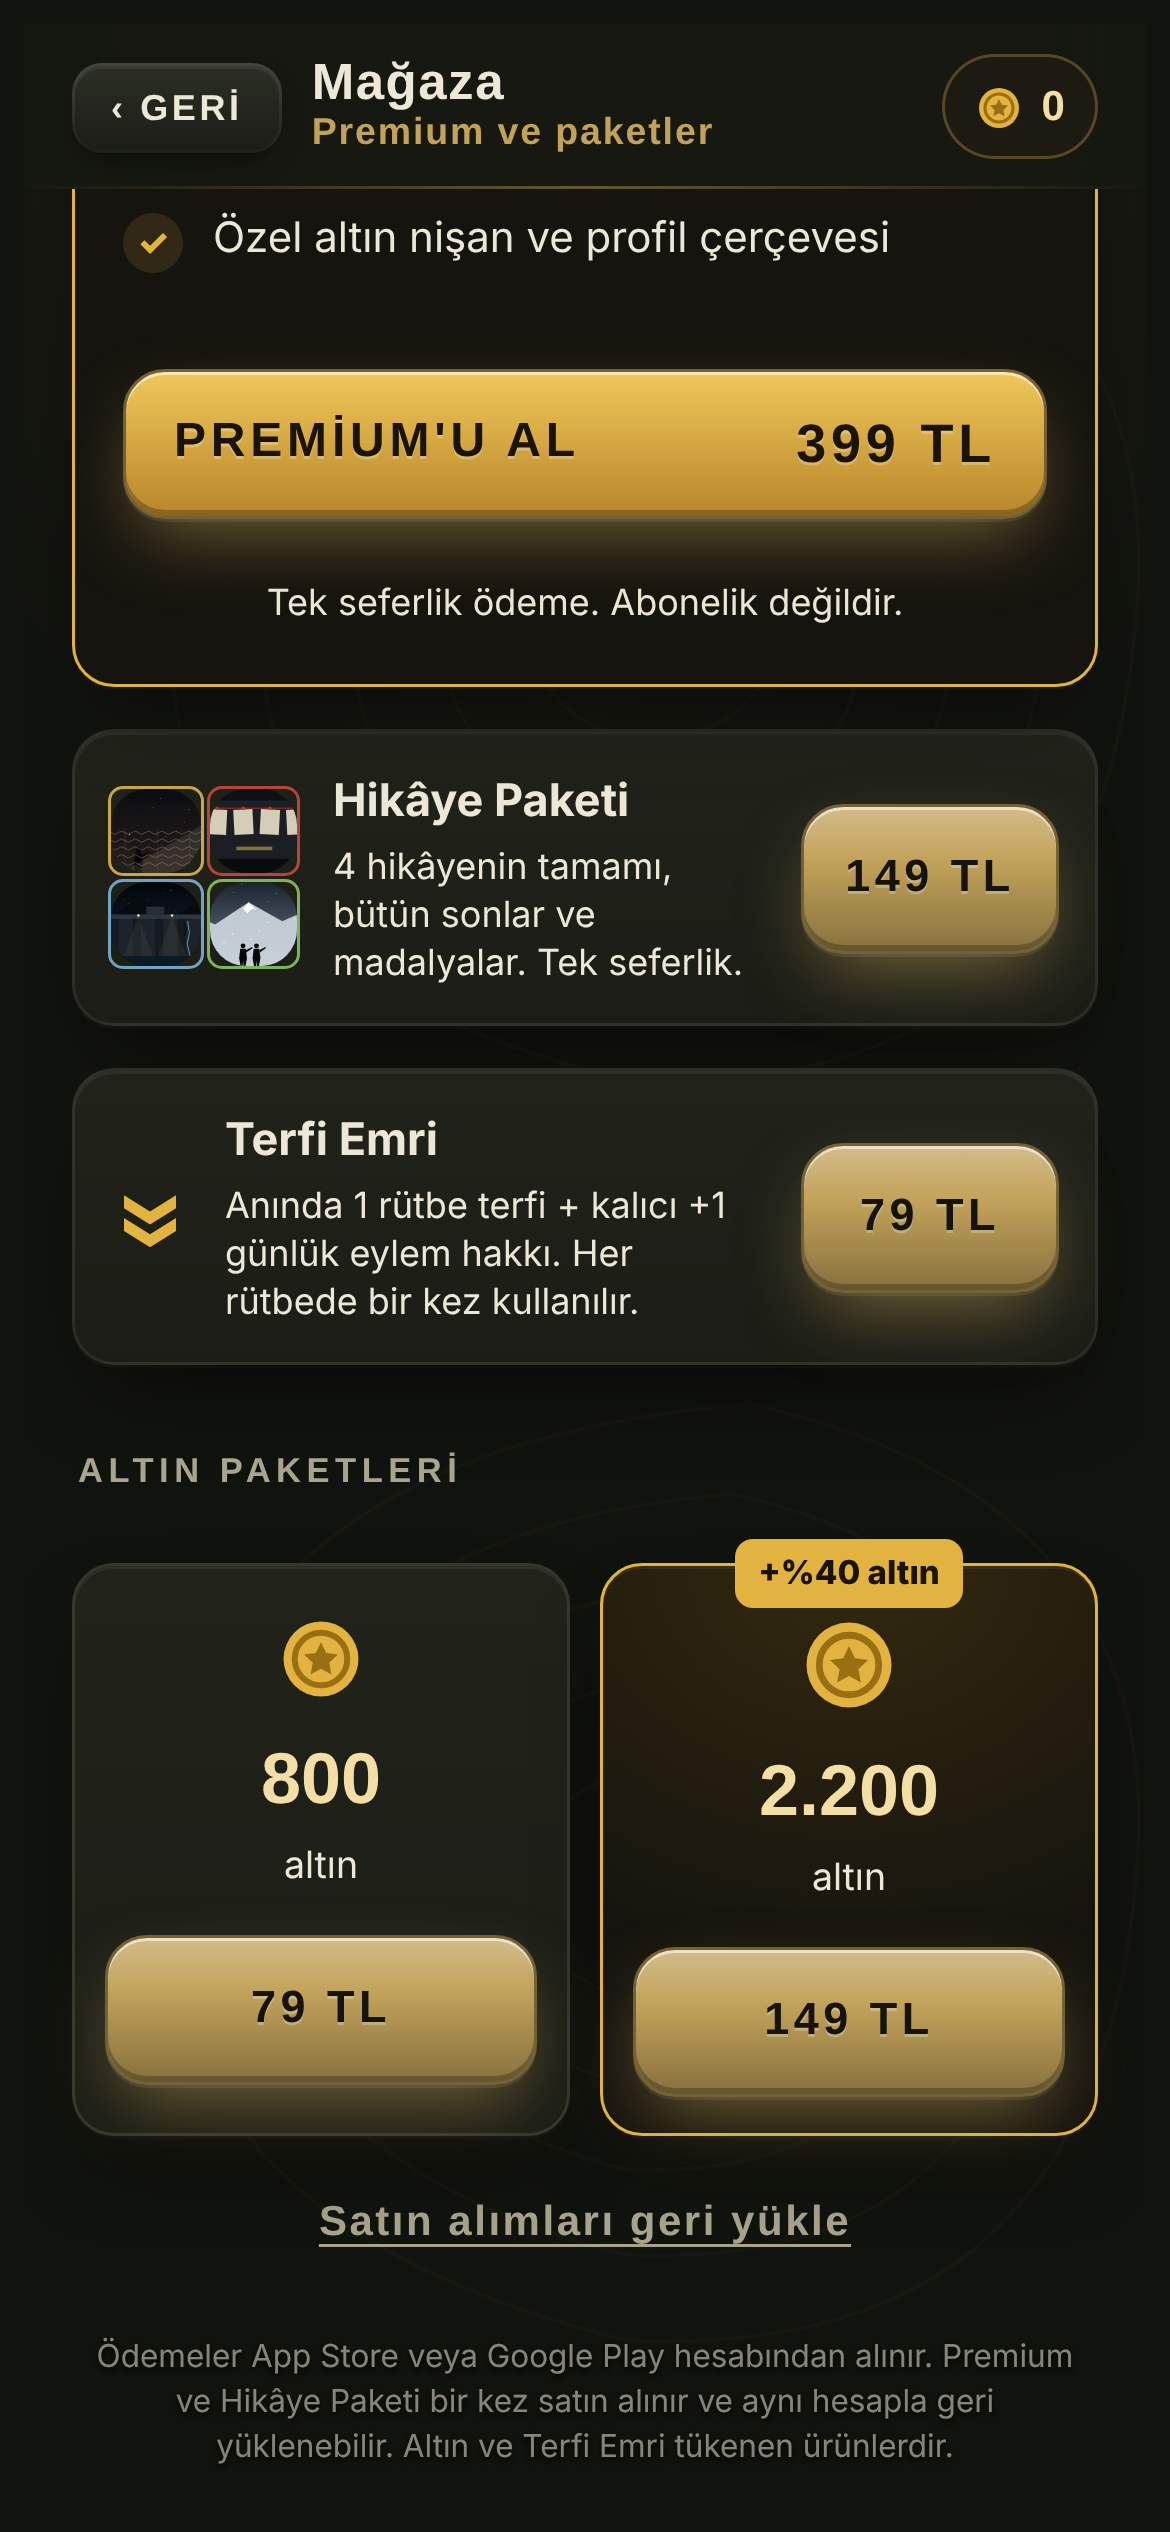
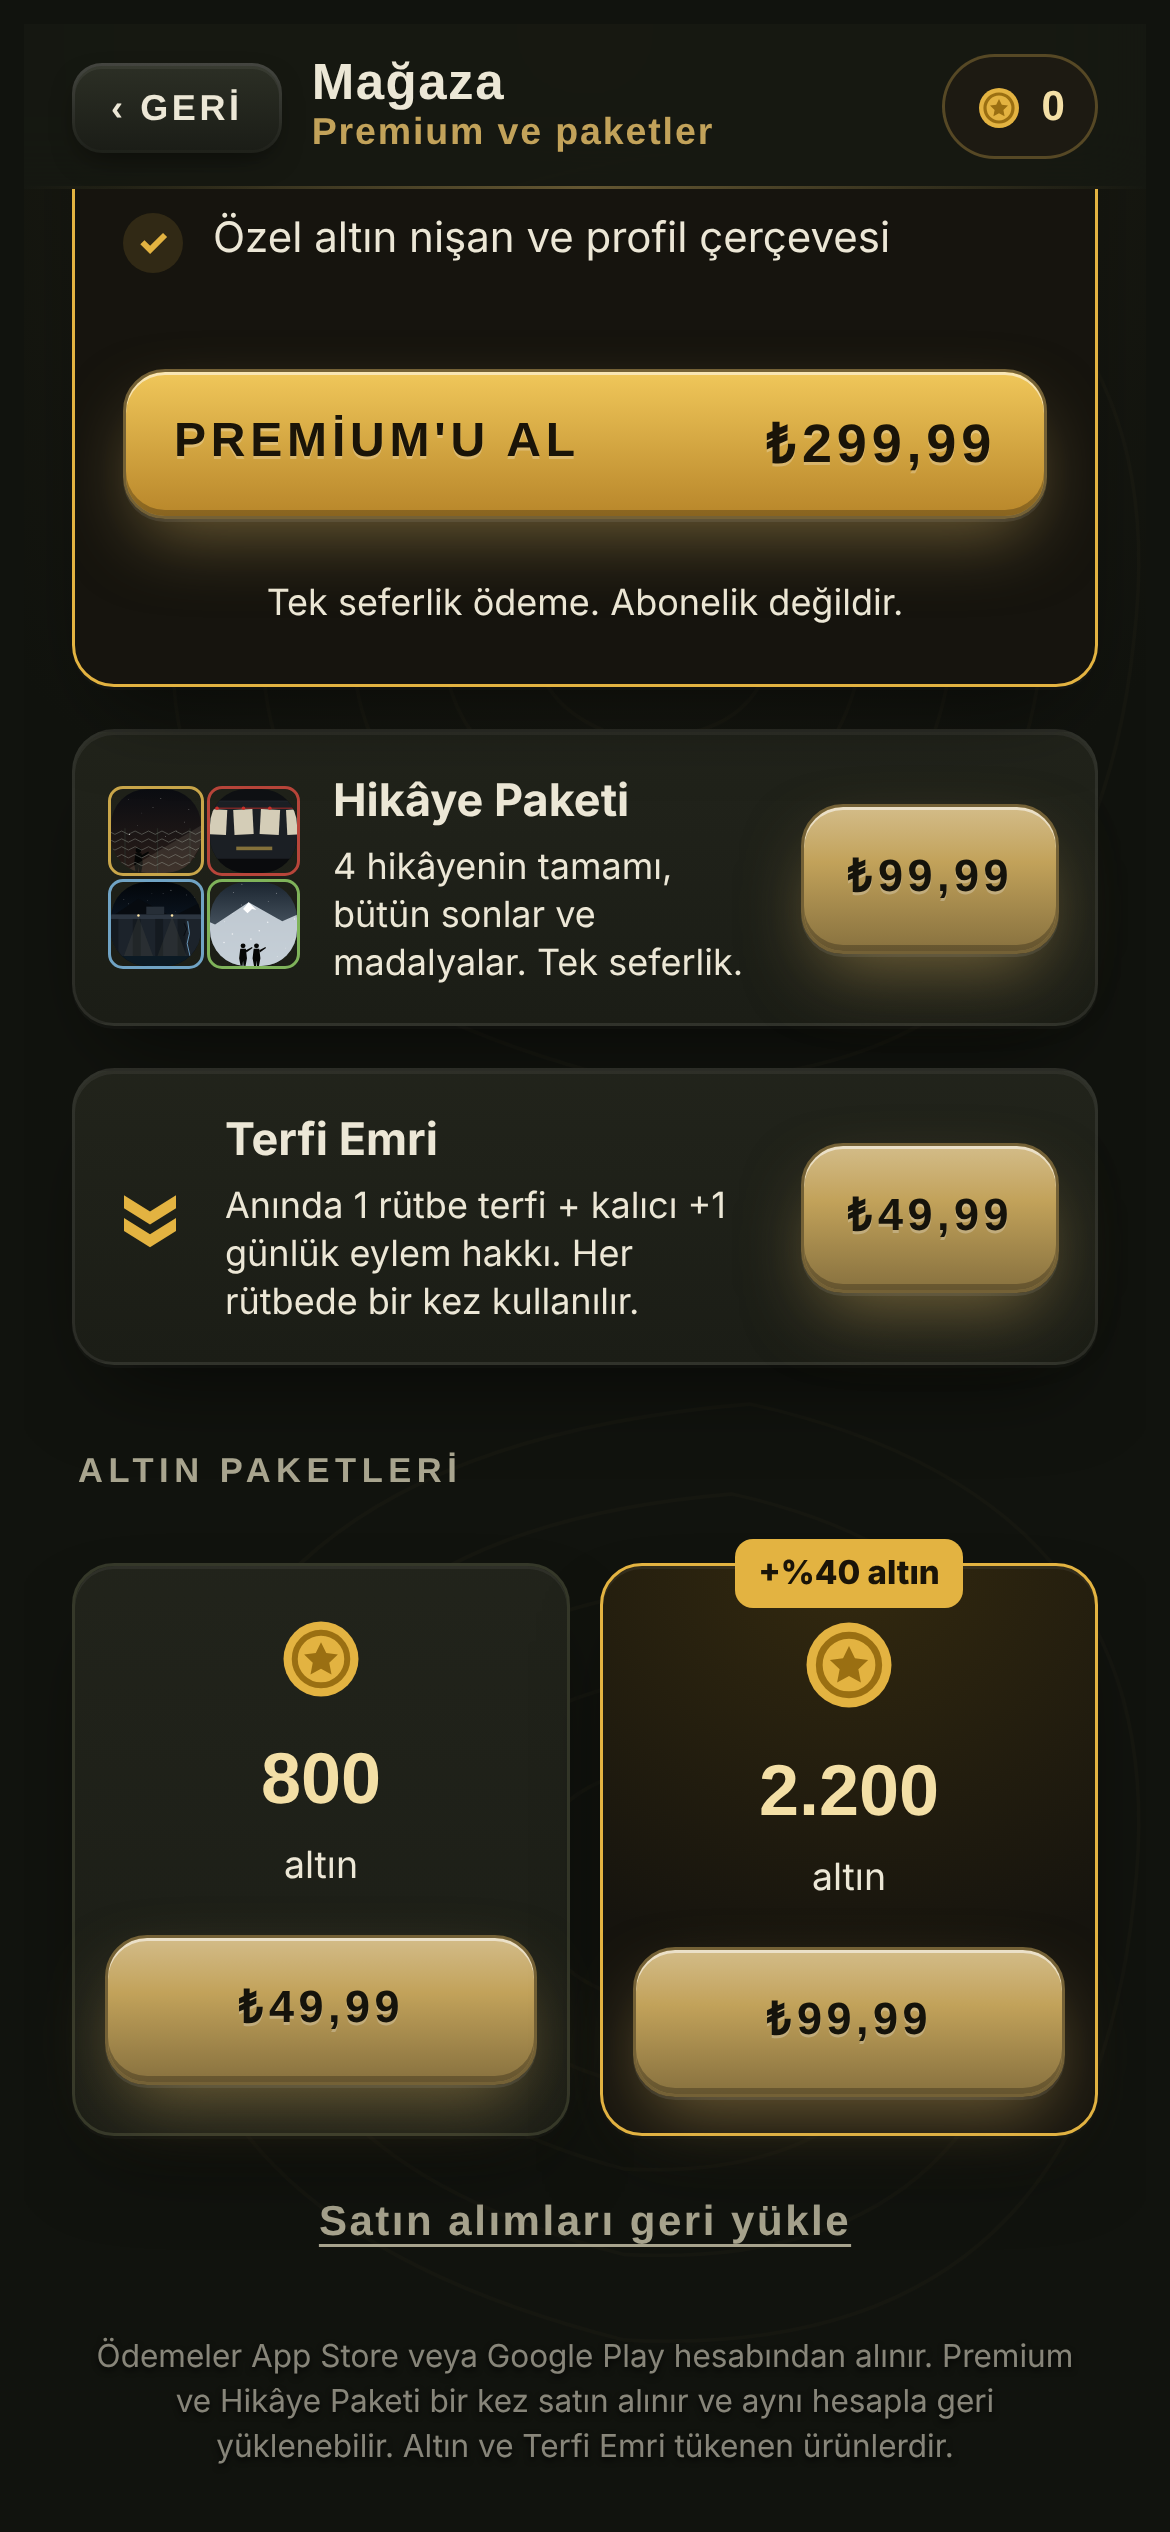
Fiyatlar: Premium 299,99 TL, Hikaye 99,99, Altin 99,99/49,99, Terfi 49,99; oyun ici fiyatlar magazadan
Claude-Session: https://claude.ai/code/session_01J1vkHHqSEZUs16spwKhLJC

diff --git a/oyun-kaynak/src/v32b.js b/oyun-kaynak/src/v32b.js
@@ -14,8 +14,8 @@ function poster32(t,soon,big){const P=soon?null:tp32(t.id);const ends=soon?0:tal
 function packBanner32(){if(hasStory32())return '';const all=allPosters32();
  return `<div class="tpack"><div class="tpk-shine"></div><div class="tpk-h"><span class="tpk-k">Hikâye Paketi</span><b class="stencil">${all.length} hikâye · tek paket</b><small>Her hikâyenin tamamı, tüm sonlar ve kariyer madalyaları</small></div>
  <div class="tpk-mini">${all.map(({t,soon})=>`<div style="--tc:${t.color}">${sl32(soon?soonArt32(t.color):taleArt32(t.cover,t))}<span>${esc(t.ti)}</span></div>`).join('')}</div>
- <div class="tpk-buy"><div><span class="tpk-p">149 TL</span><small>tek seferlik</small></div><button class="btn tpk-btn" data-a="buy" data-v="story">Paketi aç</button></div>
- <button class="tpk-prem" data-a="buy" data-v="premium"><span class="tpk-best">En iyi değer</span>Premium · 399 TL <em>paket dahil, reklamsız ve tüm özellikler ›</em></button></div>`}
+ <div class="tpk-buy"><div><span class="tpk-p">${P32('story')}</span><small>tek seferlik</small></div><button class="btn tpk-btn" data-a="buy" data-v="story">Paketi aç</button></div>
+ <button class="tpk-prem" data-a="buy" data-v="premium"><span class="tpk-best">En iyi değer</span>Premium · ${P32('premium')} <em>paket dahil, reklamsız ve tüm özellikler ›</em></button></div>`}
 function vTales32(){const runs=TALES.filter(t=>tp32(t.id).run&&!(t.custom?tp32(t.id).run.end:false));
  return `<div class="top gut"><button class="mini" data-a="back">‹ Geri</button><div class="who"><b>Hikâye modu</b><span>Kararların sonu belirler</span></div></div>
  <div class="scr plain gut" id="scr">
@@ -36,7 +36,7 @@ function vTaleLock32(t,chap,ci){const all=allPosters32();
  <div class="tpw-card"><div class="tpk-shine"></div><span class="tpk-k">Hikâye Paketi</span>
   <div class="tpw-grid">${all.map(({t:x,soon})=>`<div style="--tc:${x.color}">${sl32(soon?soonArt32(x.color):taleArt32(x.cover,x))}<span>${esc(x.ti)}</span></div>`).join('')}</div>
   <ul class="tpw-ul"><li>${all.length} hikâyenin tamamı</li><li>Her hikâyede farklı sonlar</li><li>Kariyer modunda özel madalyalar</li></ul>
-  <div class="tpw-price"><span class="tpk-p">149 TL</span><small>tek seferlik ödeme</small></div>
+  <div class="tpw-price"><span class="tpk-p">${P32('story')}</span><small>tek seferlik ödeme</small></div>
   <button class="btn block tpk-btn big" data-a="buy" data-v="story">Paketi aç ve devam et</button></div>
- <button class="tpk-prem big" data-a="buy" data-v="premium"><span class="tpk-best">En iyi değer</span>Premium · 399 TL <em>Hikâye Paketi + reklamsız oyun + 2 kat tecrübe + istediğin rütbeden başla ›</em></button>
+ <button class="tpk-prem big" data-a="buy" data-v="premium"><span class="tpk-best">En iyi değer</span>Premium · ${P32('premium')} <em>Hikâye Paketi + reklamsız oyun + 2 kat tecrübe + istediğin rütbeden başla ›</em></button>
  <button class="ti2-link" data-a="tales">Daha sonra</button></div></div>`}

diff --git a/oyun-kaynak/src/v32.js b/oyun-kaynak/src/v32.js
@@ -1,3 +1,4 @@
+const P32=k=>{try{if(typeof price33==='function')return price33(k)}catch(e){}return({story:'₺99,99',premium:'₺299,99'})[k]};
 /* =====================================================================
    v32 · HİKÂYE MODU MOTORU
    Hikâyeler TALES dizisine registerTale() ile eklenir.
@@ -86,7 +87,7 @@ function vTale32(){const t=tale32(T32.id);if(!t){UI.scr='tales';return vTales32(
 function vTaleLock32(t,chap,ci){return `<div class="tlock32"><div class="ti-art">${taleArt32(t.cover,t)}</div><span class="lbl">Bölüm ${ci+1} · ${esc(chap.ti)}</span><h2 class="stencil">Hikâye devam ediyor…</h2>
  <p>Ücretsiz bölümü bitirdin. <b>${esc(t.ti)}</b> hikâyesinin devamı ve diğer tüm hikâyeler <b>Hikâye Paketi</b>'nde. Kaldığın yer kaydedildi; paketi alınca buradan devam edersin.</p>
  <div class="fx">${TALES.map(x=>`<span>${esc(x.ti)}</span>`).join('')}</div>
- <button class="btn block" data-a="buy" data-v="story">Hikâye Paketi · 149 TL</button><button class="btn ghost block" data-a="buy" data-v="premium">Premium · 399 TL (paket dahil)</button>
+ <button class="btn block" data-a="buy" data-v="story">Hikâye Paketi · ${P32('story')}</button><button class="btn ghost block" data-a="buy" data-v="premium">Premium · ${P32('premium')} (paket dahil)</button>
  <button class="btn ghost block" data-a="tales">Hikâyelere dön</button></div>`}
 function taleEndBlock32(t,k,body,art){const P=tp32(t.id);const E=talEnds32(t).find(e=>e.k===k)||{k,ti:k};const first=!P.done.includes(E.k);
  if(first){P.done.push(E.k);if(E.medal){TP32._medals=TP32._medals||[];if(!TP32._medals.includes(E.medal))TP32._medals.push(E.medal)}tpSave32()}

diff --git a/oyun-kaynak/src/v33.js b/oyun-kaynak/src/v33.js
@@ -5,8 +5,8 @@
    ===================================================================== */
 const PID33={premium:'com.gulergamestudios.buyukyemin.premium',story:'com.gulergamestudios.buyukyemin.hikaye',
  goldL:'com.gulergamestudios.buyukyemin.altin_buyuk',goldS:'com.gulergamestudios.buyukyemin.altin_kucuk',terfi:'com.gulergamestudios.buyukyemin.terfi'};
-const PROD33={premium:{ti:'Premium',price:'399 TL',type:'non'},story:{ti:'Hikâye Paketi',price:'149 TL',type:'non'},
- goldL:{ti:'2.200 altın',price:'149 TL',type:'con',gold:2200},goldS:{ti:'800 altın',price:'79 TL',type:'con',gold:800},terfi:{ti:'Terfi Emri',price:'79 TL',type:'con'}};
+const PROD33={premium:{ti:'Premium',price:'₺299,99',type:'non'},story:{ti:'Hikâye Paketi',price:'₺99,99',type:'non'},
+ goldL:{ti:'2.200 altın',price:'₺99,99',type:'con',gold:2200},goldS:{ti:'800 altın',price:'₺49,99',type:'con',gold:800},terfi:{ti:'Terfi Emri',price:'₺49,99',type:'con'}};
 const isPrem33=()=>!!ENT32.premium;
 /* ---- altın cüzdanı (hesap düzeyinde; kariyerden bağımsız) ---- */
 let GOLD33=0;try{GOLD33=+(localStorage.getItem('by_gold')||0)||0}catch(e){}

diff --git a/GUNCELLEME-PAKETI.md b/GUNCELLEME-PAKETI.md
@@ -18,11 +18,11 @@ Oyun kodu hazırdır (ana kol `main`). Apple'a şu an gönderilecek sade sürüm
 
 | Kimlik (Product ID) | Tür | Fiyat | TR adı | EN adı |
 |---|---|---|---|---|
-| com.gulergamestudios.buyukyemin.premium | Tüketilmeyen (Non-consumable) | 399 TL | Premium | Premium |
-| com.gulergamestudios.buyukyemin.hikaye | Tüketilmeyen (Non-consumable) | 149 TL | Hikâye Paketi | Story Pack |
-| com.gulergamestudios.buyukyemin.altin_buyuk | Tüketilen (Consumable) | 149 TL | 2.200 Altın | 2,200 Gold |
-| com.gulergamestudios.buyukyemin.altin_kucuk | Tüketilen (Consumable) | 79 TL | 800 Altın | 800 Gold |
-| com.gulergamestudios.buyukyemin.terfi | Tüketilen (Consumable) | 79 TL | Terfi Emri | Promotion Order |
+| com.gulergamestudios.buyukyemin.premium | Tüketilmeyen (Non-consumable) | ₺299,99 | Premium | Premium |
+| com.gulergamestudios.buyukyemin.hikaye | Tüketilmeyen (Non-consumable) | ₺99,99 | Hikâye Paketi | Story Pack |
+| com.gulergamestudios.buyukyemin.altin_buyuk | Tüketilen (Consumable) | ₺99,99 | 2.200 Altın | 2,200 Gold |
+| com.gulergamestudios.buyukyemin.altin_kucuk | Tüketilen (Consumable) | ₺49,99 | 800 Altın | 800 Gold |
+| com.gulergamestudios.buyukyemin.terfi | Tüketilen (Consumable) | ₺49,99 | Terfi Emri | Promotion Order |
 
 Diğer ülkelerin fiyatı: mağazanın TL fiyatına göre otomatik eşdeğer fiyatı.
 
